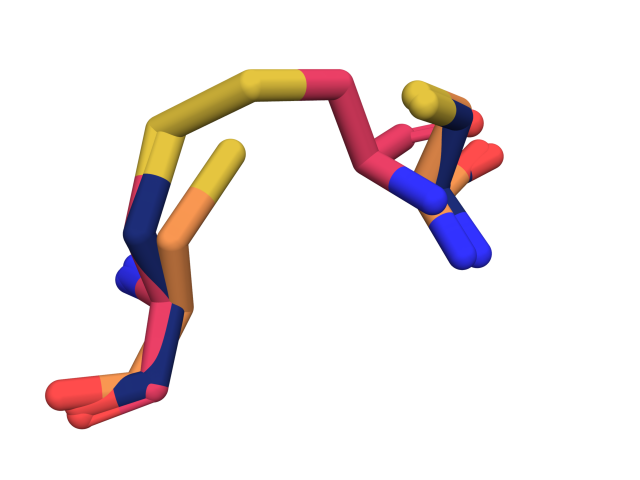
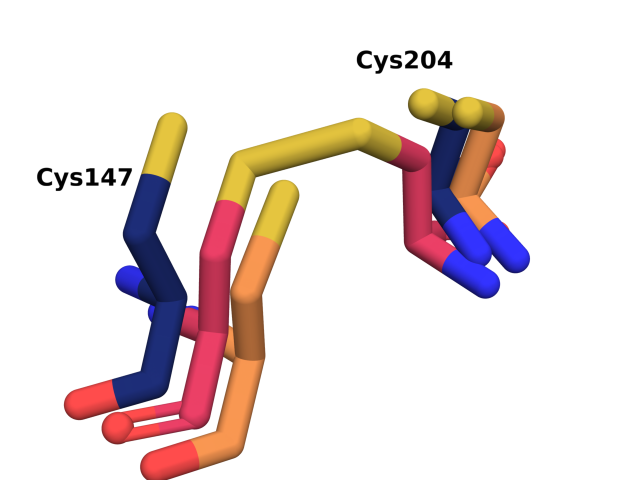
Update cys figures with labels

Changed region(s): [[0.0625, 0.0938, 0.8438, 1.0]]

diff --git a/study/figures/h-background/h008-cys-aligned/h008.py b/study/figures/h-background/h008-cys-aligned/h008.py
@@ -96,6 +96,8 @@ cmd.set("ambient", 0.25)
 cmd.set("specular", 0)
 cmd.set("light_count", 4)
 cmd.set("ray_shadows", 0)
+cmd.set("label_size", 24)
+cmd.set("label_font_id", 7)
 
 # Styling
 cmd.show("sticks", "cys-reduced")
@@ -115,6 +117,10 @@ cmd.color("carbon-color", "element C and rep sticks")
 util.cnc("cys-reduced")
 util.cnc("cys-oxidized")
 util.cnc("cys-cu")
+
+cmd.label(selection="resi 145 and name CB", expression="'Cys147'")
+cmd.label(selection="resi 202 and name CB", expression="'Cys204'")
+cmd.set("label_position", (0, 4.5, 0))
 
 cmd.set_view(
     """
@@ -156,12 +162,15 @@ if SAVE_PNG:
     cmd.color("oxidized-color", "element C and rep sticks and model cys-oxidized")
     cmd.color("cu-color", "element C and rep sticks and model cys-cu")
 
-    cmd.align("model cys-oxidized", "model cys-reduced")
-    cmd.align("model cys-cu", "model cys-reduced")
-
     cmd.set_view(
         """(0.14115269482135773, 0.9428754448890686, -0.3017517328262329, -0.6285635232925415, 0.3208395540714264, 0.7085011601448059, 0.7648432850837708, 0.08965732157230377, 0.6379397511482239, -0.000559425912797451, -0.000637061835732311, -24.11861801147461, 33.97719192504883, 45.098697662353516, 36.60597610473633, -21.58184242248535, 69.75759887695312, -20.0)"""
     )
+
+    cmd.label(selection="resi 145 and name CB", expression="")
+    cmd.label(selection="resi 202 and name CB", expression="")
+    cmd.label(selection="resi 145 and name CB and model cys-reduced", expression="'Cys147'")
+    cmd.label(selection="resi 202 and name CB and model cys-reduced", expression="'Cys204'")
+    cmd.set("label_position", (-1, 2.5, 0))
 
     cmd.png(png_path, dpi=1000)
     cmd.color("carbon-color", "element C and rep sticks")
